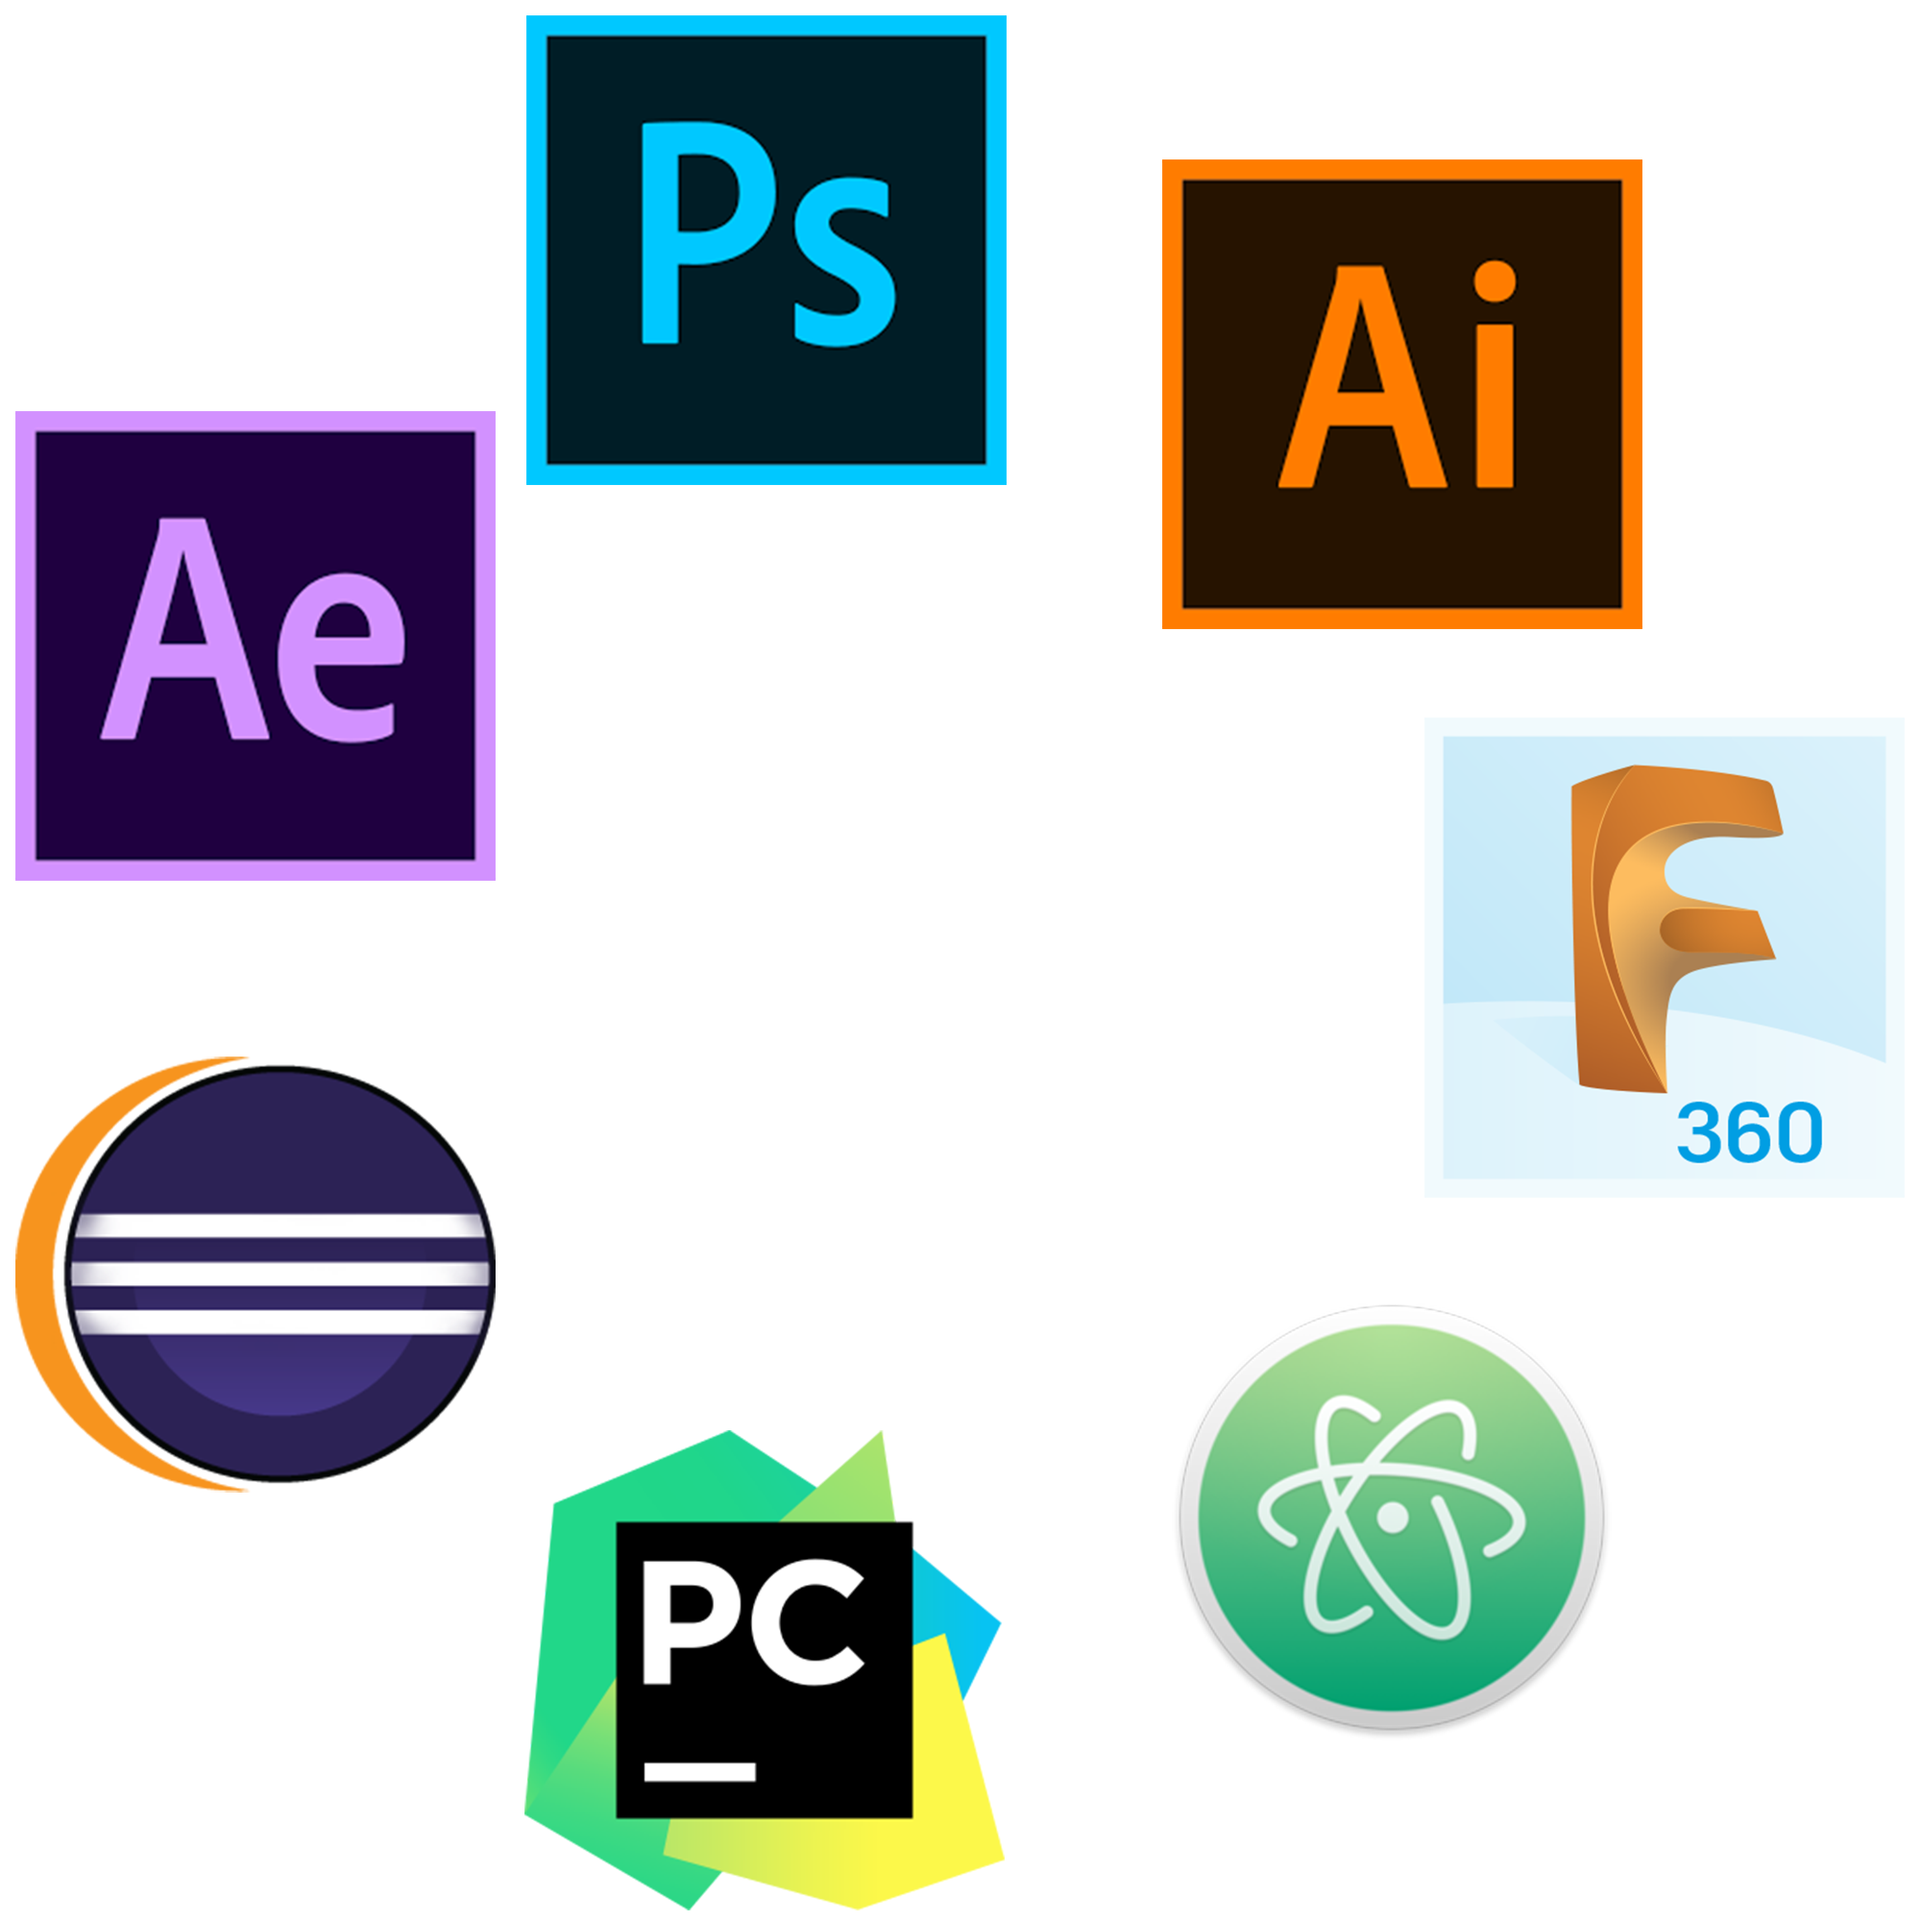
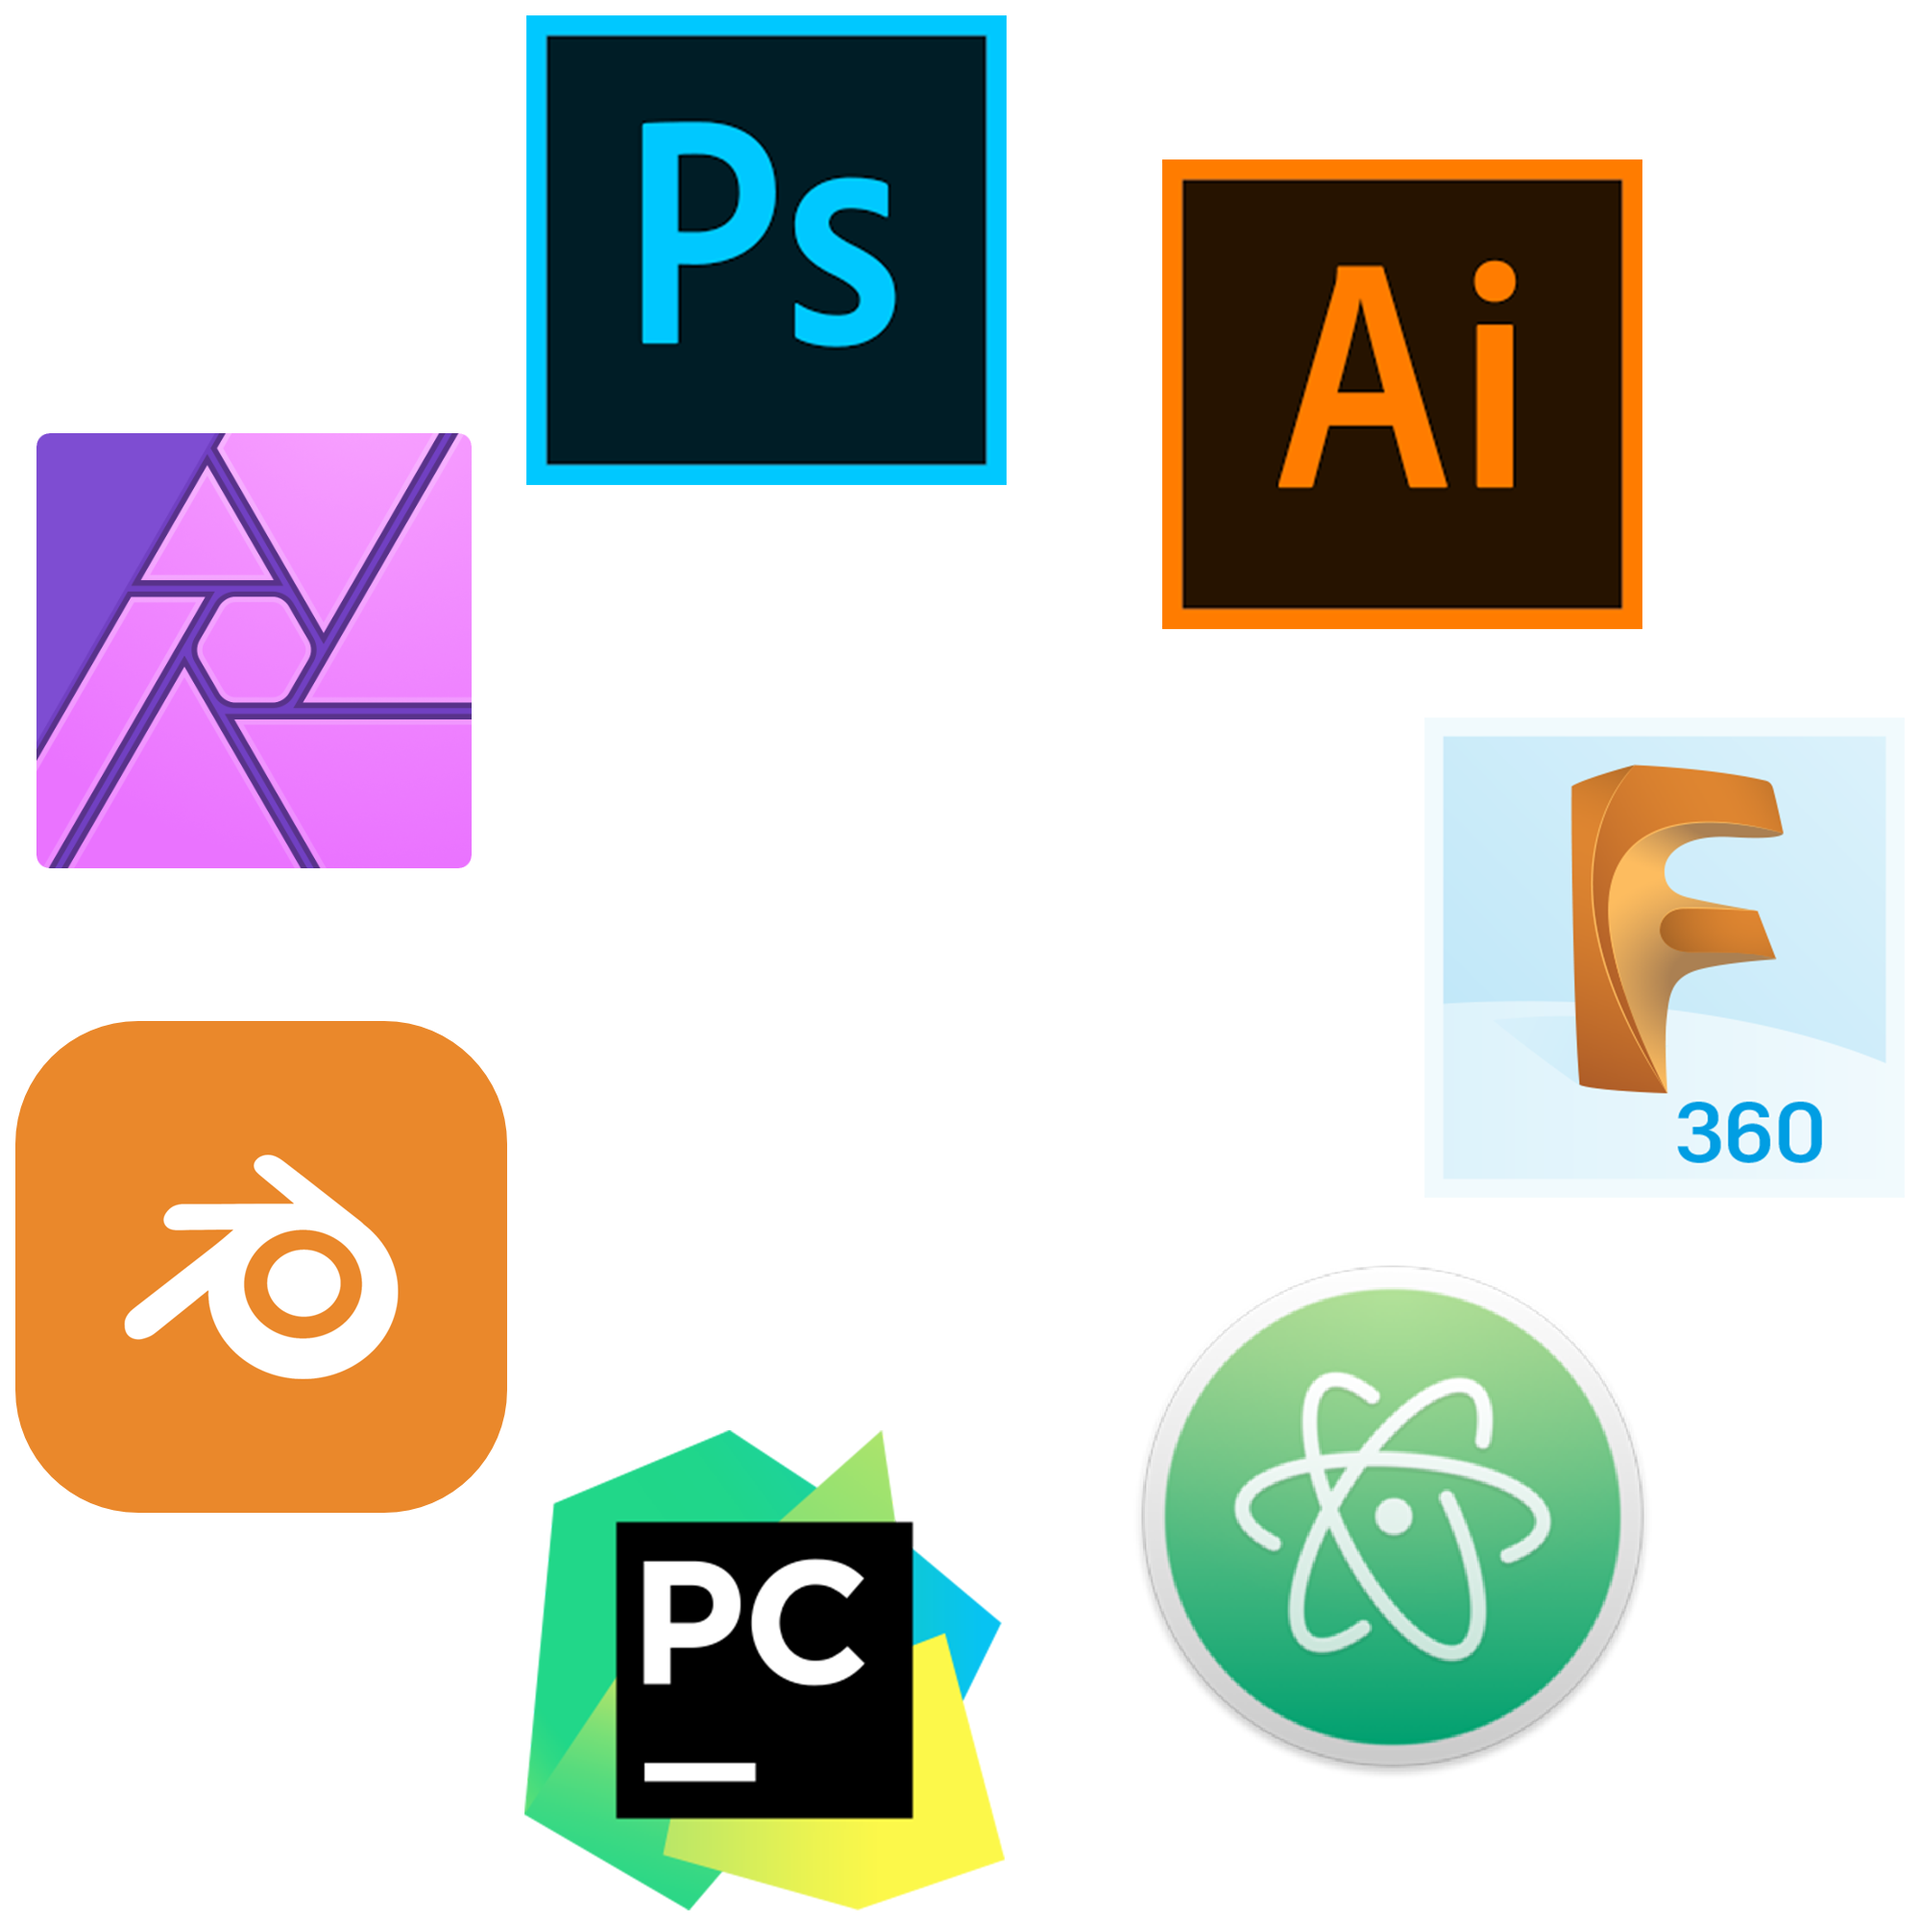
small push

Changed region(s): [[0.0, 0.527, 0.279, 0.806], [0.0, 0.217, 0.279, 0.465], [0.589, 0.651, 0.868, 0.93]]

diff --git a/index.html b/index.html
@@ -94,19 +94,19 @@
           <h4>Software I Use</h4>
           <h>Logos, Designs, & Animations</h>
           <ul>
-          <li>After Effects</li>
+          <li>Affinity Photo</li>
           <li>Photoshop</li>
           <li>Illustrator</li>
           </ul>
           <h>3D modeling & CNC tool pathing</h>
           <ul>
           <li>Fusion360</li>
+          <li>Blender</li>
           </ul>
           <h>Coding Environments</h>
           <ul>
           <li>Atom</li>
           <li>PyCharm</li>
-          <li>Eclipse</li>
           </ul>
         </div>
         <div mobile="5" img-src="./images/Icon_Circle.png" img-src-hori="./images/Icon_Line.png" onload-rise="" class="two-thirds column fit-center-img">
@@ -146,6 +146,8 @@
         <li><a href="https://twitter.com/gunnthorian" class="social-icon"><i class="fa fa-twitter"></i></a></li>
         <li><a href="https://www.youtube.com/user/gunnthorian" class="social-icon"><i class="fa fa-youtube"></i></a></li>
         <li><a href="https://github.com/gunnthorian" class="social-icon"><i class="fa fa-github"></i></a></li>
+        <li><a href="https://instagram.com/gunnthorian" class="social-icon"><i class="fa fa-instagram"></i></a></li>
+        <li><a href="https://linkedin.com/gunnthorian" class="social-icon"><i class="fa fa-linkedin-in"></i></a></li>
       </div>
     </div>
   </div>

diff --git a/css/social-icons.css b/css/social-icons.css
@@ -86,6 +86,30 @@ div.social-icons {
 .fa-github:hover {
     background-color: #24292e;
 }
+.fa-instagram {
+    padding:10px 12px;
+    -o-transition:.5s;
+    -ms-transition:.5s;
+    -moz-transition:.5s;
+    -webkit-transition:.5s;
+    transition: .5s;
+    background-color: #566473;
+}
+.fa-instagram:hover {
+    background-color: #DD2A7B;
+}
+.fa-linkedin-in {
+    padding:10px 12px;
+    -o-transition:.5s;
+    -ms-transition:.5s;
+    -moz-transition:.5s;
+    -webkit-transition:.5s;
+    transition: .5s;
+    background-color: #566473;
+}
+.fa-linkedin-in:hover {
+    background-color: #0E76A8;
+}
 .fa-link {
-  
+
 }
